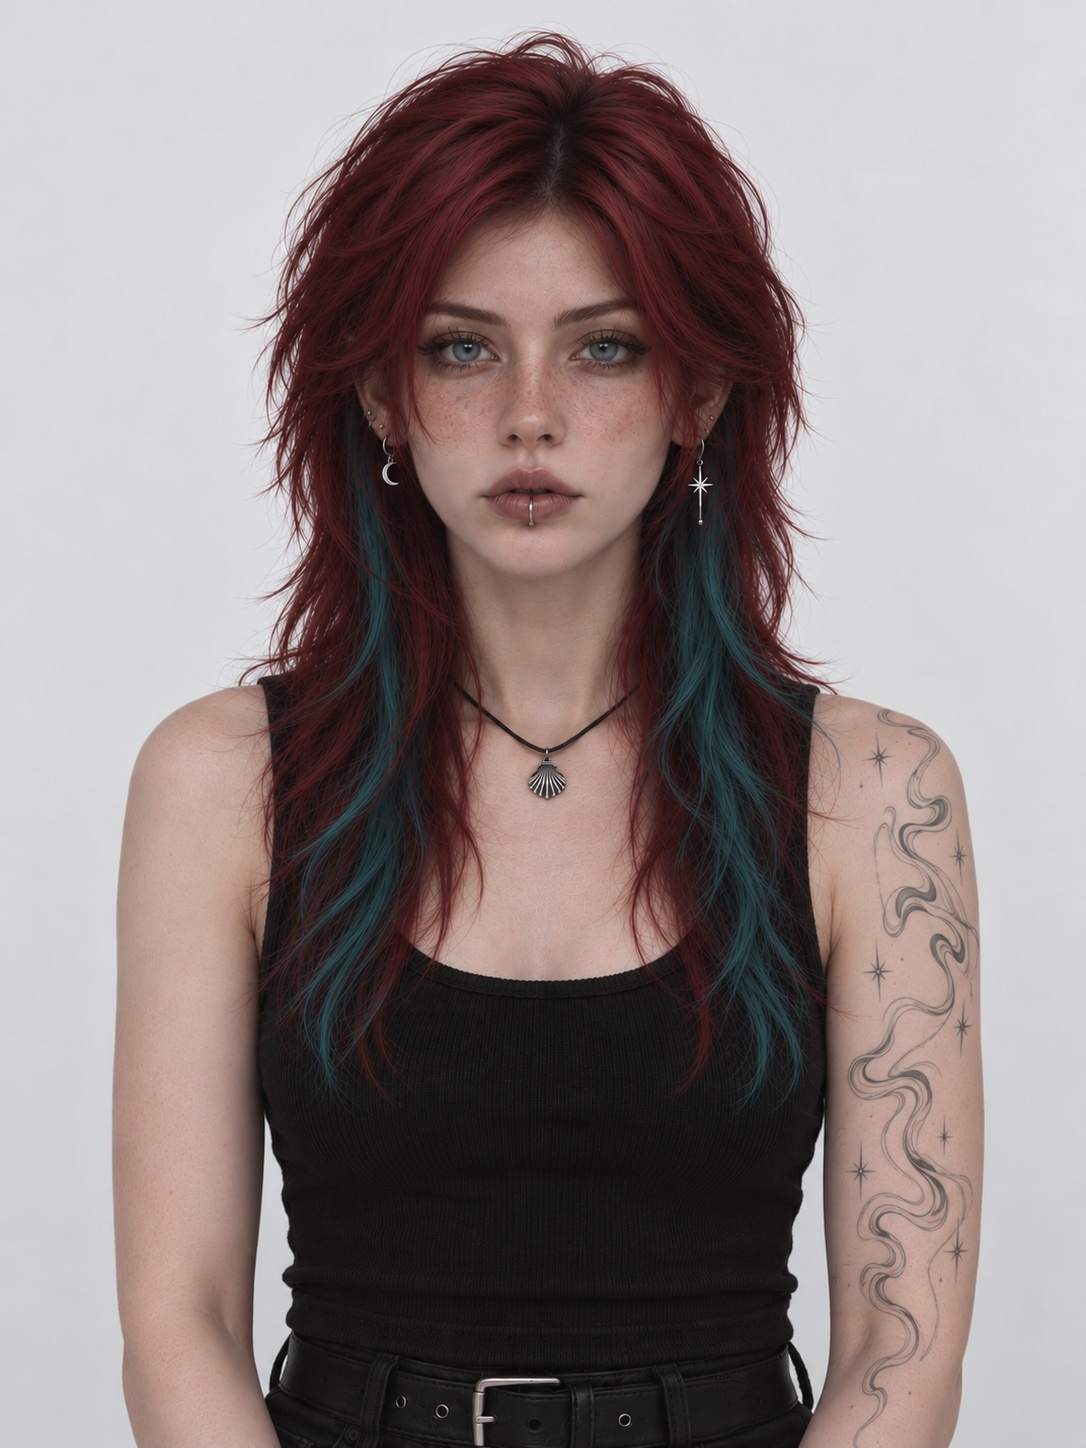
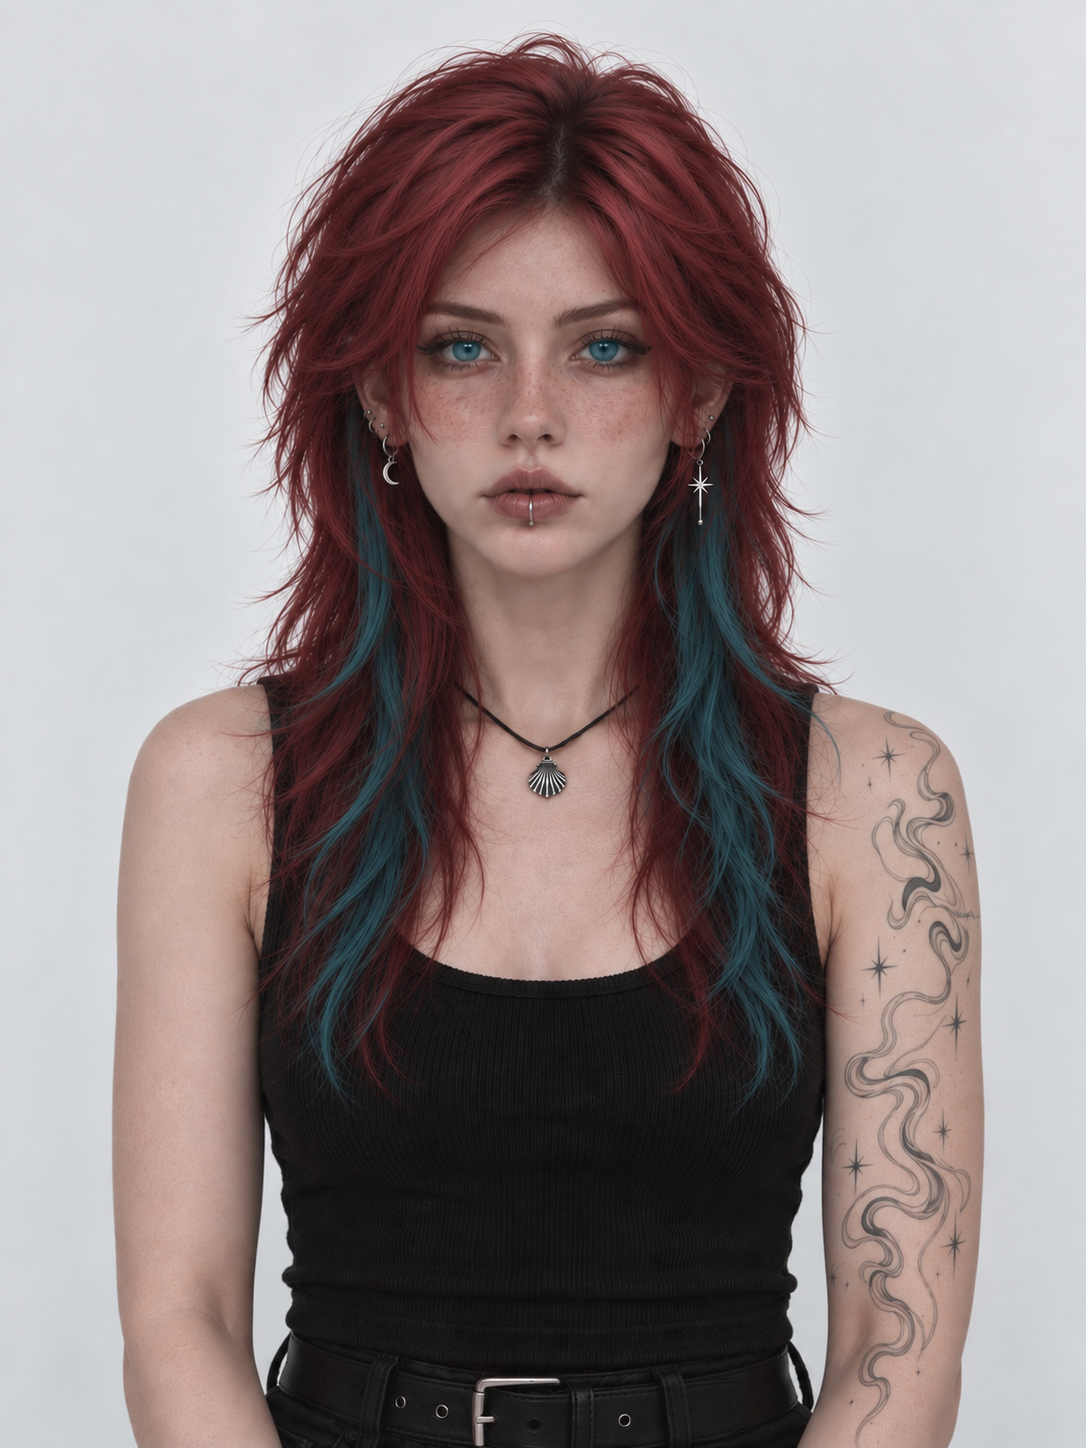
Uptade Website

diff --git a/index.html b/index.html
@@ -46,10 +46,11 @@ body.locked{overflow:hidden;height:100vh}
 .sp-skip{margin-top:16px;font-family:var(--hand);font-weight:600;font-size:1.42rem;color:#e2d3ff;
   display:flex;align-items:center;justify-content:center;gap:9px;
   opacity:0;animation:fadeUp .6s ease 1.8s forwards;text-shadow:0 0 14px rgba(190,150,255,.55)}
-.sp-ring{width:22px;height:22px;flex:none;animation:spinFast 1.15s linear infinite}
+.sp-ring{width:22px;height:22px;flex:none;overflow:visible;background:none;
+  animation:spinFast 1.15s linear infinite}
 .sp-ring circle{fill:none;stroke-width:3.4;stroke-linecap:round}
 .sp-ring .trk{stroke:rgba(255,255,255,.18)}
-.sp-ring .arc{stroke:#ffb3e6;stroke-dasharray:34 60;filter:drop-shadow(0 0 5px #ffb3e6)}
+.sp-ring .arc{stroke:#ffb3e6;stroke-dasharray:34 60}
 @keyframes spinFast{to{transform:rotate(360deg)}}
 .sp-star{position:absolute;pointer-events:none;animation:spStar 2.6s ease-in-out infinite;
   text-shadow:0 0 12px currentColor}
@@ -110,7 +111,9 @@ h1{font-family:'Comfortaa',cursive;font-size:clamp(2.7rem,9vw,4.8rem);font-weigh
   -webkit-background-clip:text;background-clip:text;color:transparent;
   animation:shine 9s linear infinite;filter:drop-shadow(0 0 22px rgba(160,120,255,.55))}
 @keyframes shine{to{background-position:300% center}}
-.tagline{color:var(--muted);font-size:clamp(1rem,3.4vw,1.15rem);margin:14px auto 0;max-width:520px;line-height:1.7}
+.tagline{color:var(--muted);font-size:clamp(.95rem,3.2vw,1.15rem);margin:16px auto 0;
+  max-width:760px;line-height:1.8;display:flex;flex-direction:column;gap:2px}
+.tagline span{display:block;text-wrap:balance}
 
 /* ══ СТРЕЛКА ══ */
 .tg-zone{position:relative;display:flex;flex-direction:column;align-items:center;margin:56px auto 0}
@@ -262,7 +265,10 @@ footer .hearts span{display:inline-block;animation:sp 3.4s ease-in-out infinite}
     <img class="logo" src="assets/logo.png" alt="RePic">
   </div>
   <h1>RePic</h1>
-  <p class="tagline">✧ Сообщество, где рождаются промты для ИИ-картинок ✧ тут хранятся референсы наших прекрасных персон-креаторов! ✧</p>
+  <p class="tagline">
+    <span>✧ Сообщество, где рождаются промты для ИИ-картинок ✧</span>
+    <span>✧ Тут хранятся референсы наших прекрасных персон-креаторов! ✧</span>
+  </p>
 
   <div class="tg-zone">
     <div class="cap">тык! ♡</div>
@@ -374,10 +380,10 @@ document.querySelectorAll('.arrow path').forEach(p=>
 
 /* ══ креаторы ══ */
 const creators=[
- {c:'Вену',   p:'Женя', f:'zhenya', url:'https://t.me/venuprompts'},
- {c:'Милка',  p:'Милка',f:'milka',  url:'https://t.me/milkagrobgrob'},
- {c:'Невлада',p:'Фаина',f:'faina',  url:'https://t.me/nivladish'},
- {c:'Слоппи', p:'Ева',  f:'eva',    url:'https://t.me/sloppyhouse'}
+ {c:'Venu',    p:'Женя', f:'zhenya', url:'https://t.me/venuprompts'},
+ {c:'Milka',   p:'Milka',f:'milka',  url:'https://t.me/milkagrobgrob', one:true},
+ {c:'Nivladi', p:'Фаина',f:'faina',  url:'https://t.me/nivladish'},
+ {c:'Sloppy',  p:'Ева',  f:'eva',    url:'https://t.me/sloppyhouse'}
 ];
 const tg='<svg viewBox="0 0 24 24"><path d="M9.8 16.3l-.4 4.6c.6 0 .8-.2 1.1-.5l2.6-2.5 5.4 4c1 .5 1.7.3 2-.9l3.5-16.5c.3-1.4-.5-2-1.5-1.6L1.3 9.6C-.1 10.1 0 11 1.1 11.3l5.5 1.7L19.4 5.4c.6-.4 1.2-.2.7.2z"/></svg>';
 const dl='<svg viewBox="0 0 24 24"><path d="M12 3a1.4 1.4 0 0 1 1.4 1.4v8.7l2.9-2.9a1.4 1.4 0 1 1 2 2l-5.3 5.3a1.4 1.4 0 0 1-2 0L5.7 12.2a1.4 1.4 0 0 1 2-2l2.9 2.9V4.4A1.4 1.4 0 0 1 12 3zM4.4 18.2a1.4 1.4 0 0 1 1.4 1.4h12.4a1.4 1.4 0 1 1 0 2.8H5.8a2.8 2.8 0 0 1-2.8-2.8 1.4 1.4 0 0 1 1.4-1.4z"/></svg>';
@@ -401,10 +407,11 @@ document.getElementById('grid').innerHTML=creators.map((c,i)=>`
     <span>★</span><span>♥</span><span>✦</span><span>♡</span><span>✧</span></div></div>
   </div>
   <div class="body">
-   <div class="names">
-    <div class="nrow"><span class="lbl">Имя креатора</span><span class="val">${c.c}</span></div>
-    <div class="divider"></div>
-    <div class="nrow"><span class="lbl">Имя персоны</span><span class="val p">${c.p}</span></div>
+   <div class="names">${c.one
+     ? `<div class="nrow"><span class="lbl">Креатор и персона</span><span class="val p">${c.c}</span></div>`
+     : `<div class="nrow"><span class="lbl">Имя креатора</span><span class="val">${c.c}</span></div>
+        <div class="divider"></div>
+        <div class="nrow"><span class="lbl">Имя персоны</span><span class="val p">${c.p}</span></div>`}
    </div>
    <div class="btns">
     <a class="btn dl" href="assets/${c.f}-full.png" download="RePic-${c.p}.png">${dl} Скачать референс персоны</a>
